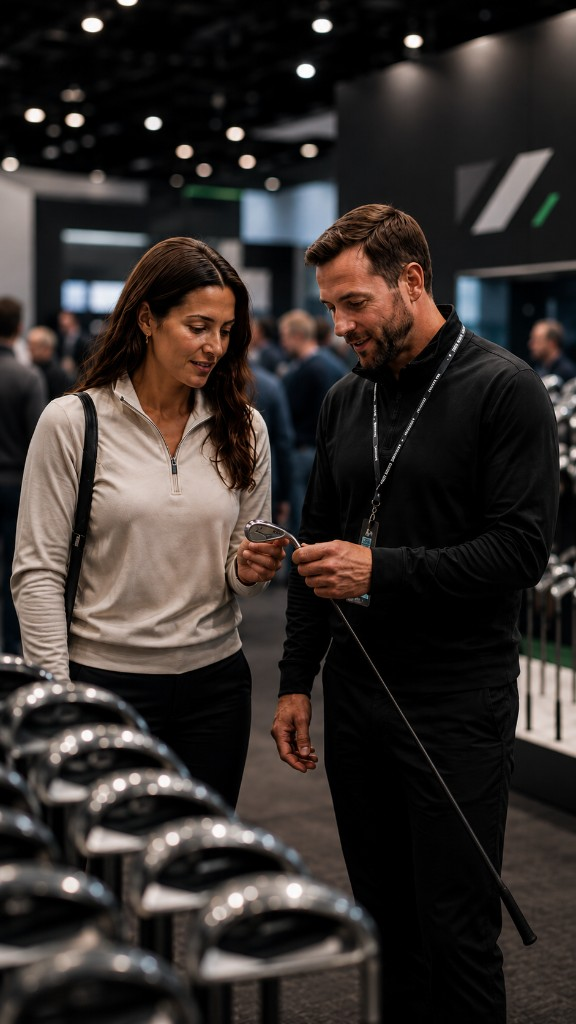
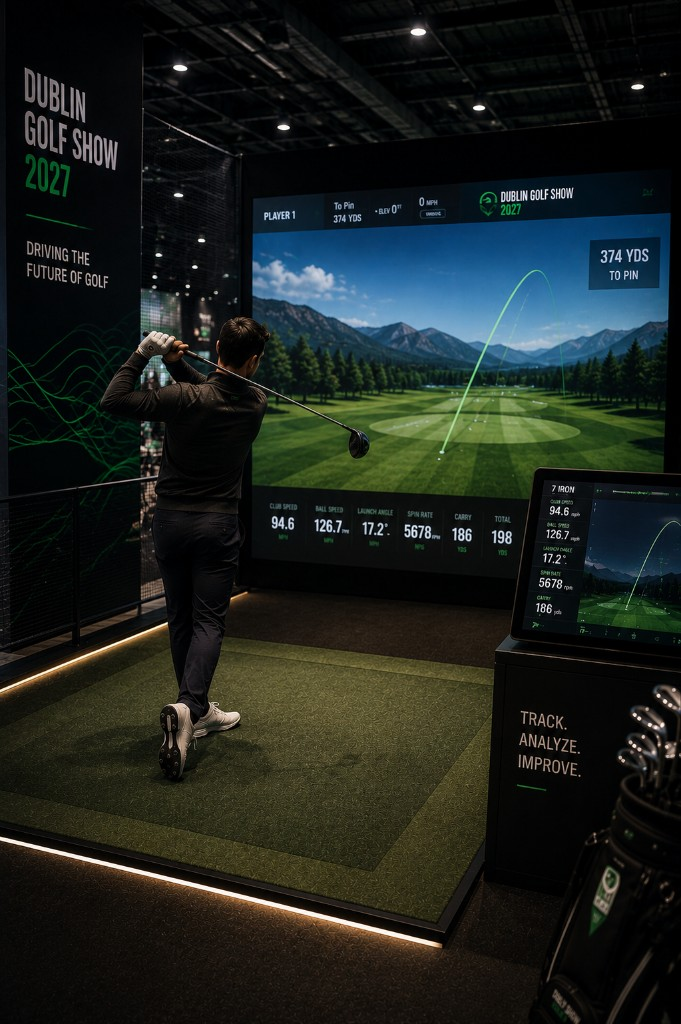
Unify consumer and exhibitor CTAs, align the footer lead capture, and refresh the simulator story slide.

diff --git a/components/layout/Footer.tsx b/components/layout/Footer.tsx
@@ -1,14 +1,15 @@
 "use client";
 
-import { useState, type FormEvent, type ReactNode } from "react";
-import { Button } from "@/components/ui/Button";
+import type { ReactNode } from "react";
 import { Contour } from "@/components/ui/Contour";
 import { Container } from "@/components/ui/Container";
+import { RegisterInterestButton } from "@/components/interest/RegisterInterestButton";
+import { siteConfig } from "@/lib/site";
 
 const socials: Array<{ label: string; href: string; icon: ReactNode }> = [
   {
     label: "Instagram",
-    href: "https://www.instagram.com/",
+    href: siteConfig.social.instagram,
     icon: (
       <svg viewBox="0 0 24 24" fill="none" aria-hidden className="h-5 w-5">
         <rect
@@ -26,8 +27,17 @@ const socials: Array<{ label: string; href: string; icon: ReactNode }> = [
     ),
   },
   {
+    label: "Facebook",
+    href: siteConfig.social.facebook,
+    icon: (
+      <svg viewBox="0 0 24 24" fill="currentColor" aria-hidden className="h-5 w-5">
+        <path d="M14.5 8.5V6.75c0-.69.1-1.08 1.12-1.08H17V3h-2.34C11.9 3 11 4.55 11 6.58V8.5H9v2.75h2V21h3.5v-9.75h2.34l.36-2.75H14.5Z" />
+      </svg>
+    ),
+  },
+  {
     label: "X",
-    href: "https://x.com/",
+    href: siteConfig.social.x,
     icon: (
       <svg viewBox="0 0 24 24" fill="currentColor" aria-hidden className="h-5 w-5">
         <path d="M13.682 10.622 20.24 3h-1.554l-5.693 6.618L8.45 3H3.25l6.876 10.007L3.25 21h1.554l6.012-6.989L15.8 21h5.2l-7.318-10.378Zm-2.126 2.471-.697-.997L4.864 4.17h2.387l4.473 6.4.697.997 5.901 8.44h-2.387l-4.379-6.914Z" />
@@ -36,7 +46,7 @@ const socials: Array<{ label: string; href: string; icon: ReactNode }> = [
   },
   {
     label: "LinkedIn",
-    href: "https://www.linkedin.com/",
+    href: siteConfig.social.linkedin,
     icon: (
       <svg viewBox="0 0 24 24" fill="currentColor" aria-hidden className="h-5 w-5">
         <path d="M6.94 8.5H4.05V20h2.89V8.5ZM5.5 7.17a1.68 1.68 0 1 0 0-3.36 1.68 1.68 0 0 0 0 3.36ZM20 20h-2.88v-5.6c0-1.33-.02-3.05-1.86-3.05-1.86 0-2.15 1.45-2.15 2.95V20H10.2V8.5h2.77v1.57h.04c.39-.73 1.33-1.5 2.74-1.5 2.93 0 3.47 1.93 3.47 4.44V20Z" />
@@ -46,16 +56,6 @@ const socials: Array<{ label: string; href: string; icon: ReactNode }> = [
 ];
 
 export function Footer() {
-  const [email, setEmail] = useState("");
-  const [done, setDone] = useState(false);
-
-  function onSubmit(event: FormEvent<HTMLFormElement>) {
-    event.preventDefault();
-    if (!email.trim()) return;
-    setDone(true);
-    setEmail("");
-  }
-
   return (
     <footer id="contact" className="section-y relative overflow-hidden border-t border-line bg-[#070d16]">
       <div className="pointer-events-none absolute inset-0" aria-hidden>
@@ -63,37 +63,18 @@ export function Footer() {
       </div>
 
       <Container className="relative">
-        <div className="grid gap-14 lg:grid-cols-12 lg:items-start lg:gap-16">
+        <div className="grid gap-14 lg:grid-cols-12 lg:items-end lg:gap-16">
           <div className="lg:col-span-7">
-            <p className="eyebrow">Stay Close</p>
-            <h2 className="mt-4 max-w-md font-display text-3xl font-bold uppercase leading-none tracking-tight text-white md:text-4xl">
-              Be first to hear
+            <h2 className="max-w-md font-display text-3xl font-bold uppercase leading-none tracking-tight text-white md:text-4xl">
+              Get Ticket Updates
             </h2>
-
-            <form
-              onSubmit={onSubmit}
-              className="mt-8 flex max-w-lg flex-col gap-3 sm:flex-row sm:items-center sm:gap-4"
-            >
-              <label htmlFor="footer-email" className="sr-only">
-                Email address
-              </label>
-              <input
-                id="footer-email"
-                type="email"
-                required
-                autoComplete="email"
-                value={email}
-                onChange={(e) => setEmail(e.target.value)}
-                placeholder="Email address"
-                className="h-12 w-full flex-1 rounded-full border border-white/15 bg-white/[0.03] px-5 text-base text-white outline-none transition-colors placeholder:text-white/35 focus:border-accent focus-visible:outline focus-visible:outline-2 focus-visible:outline-offset-2 focus-visible:outline-accent"
-              />
-              <Button type="submit" className="h-12 w-full shrink-0 sm:w-auto">
-                Subscribe
-              </Button>
-            </form>
-            {done ? (
-              <p className="mt-4 text-base text-accent">You&apos;re on the list.</p>
-            ) : null}
+            <p className="body-copy prose-width mt-5 md:mt-6">
+              Be the first to hear when tickets go on sale, speakers are announced and new
+              experiences are revealed.
+            </p>
+            <div className="mt-8 md:mt-10">
+              <RegisterInterestButton>Get Ticket Updates</RegisterInterestButton>
+            </div>
           </div>
 
           <div className="grid gap-10 sm:grid-cols-2 lg:col-span-5 lg:justify-items-end lg:text-right">
@@ -102,10 +83,10 @@ export function Footer() {
                 Contact
               </p>
               <a
-                href="mailto:hello@dublingolfshow.ie"
+                href={`mailto:${siteConfig.email}`}
                 className="mt-4 block text-lg font-light text-white transition-colors hover:text-accent"
               >
-                hello@dublingolfshow.ie
+                {siteConfig.email}
               </a>
             </div>
 

diff --git a/app/api/register-interest/route.ts b/app/api/register-interest/route.ts
@@ -200,9 +200,9 @@ export async function POST(request: Request) {
       from,
       to: [NOTIFY_EMAIL],
       replyTo: email,
-      subject: `Register Interest — ${fullName}`,
+      subject: `Get Ticket Updates — ${fullName}`,
       text: [
-        "New Register Interest submission",
+        "New Get Ticket Updates submission",
         "",
         `First name: ${firstName}`,
         `Last name: ${lastName}`,
@@ -213,7 +213,7 @@ export async function POST(request: Request) {
       ].join("\n"),
       html: `
         <div style="font-family:Arial,sans-serif;line-height:1.6;color:#0A111C">
-          <h2 style="margin:0 0 12px">New Register Interest submission</h2>
+          <h2 style="margin:0 0 12px">New Get Ticket Updates submission</h2>
           <p style="margin:0 0 8px"><strong>First name:</strong> ${escapeHtml(firstName)}</p>
           <p style="margin:0 0 8px"><strong>Last name:</strong> ${escapeHtml(lastName)}</p>
           <p style="margin:0 0 8px"><strong>Email:</strong> ${escapeHtml(email)}</p>

diff --git a/components/layout/Navbar.tsx b/components/layout/Navbar.tsx
@@ -8,7 +8,7 @@ import { useInterestModal } from "@/components/interest/InterestModalProvider";
 const links = [
   { href: "#about", label: "About" },
   { href: "#experience", label: "Experience" },
-  { href: "#partner", label: "Partner With Us" },
+  { href: "#partner", label: "Exhibit at Dublin Golf Show" },
   { href: "#contact", label: "Contact" },
 ];
 
@@ -74,7 +74,7 @@ export function Navbar() {
               <span className="absolute -bottom-1 left-0 h-px w-0 bg-accent transition-all duration-300 group-hover:w-full" />
             </a>
           ))}
-          <RegisterInterestButton size="sm">Register Interest</RegisterInterestButton>
+          <RegisterInterestButton size="sm">Get Ticket Updates</RegisterInterestButton>
         </div>
 
         <button
@@ -124,7 +124,7 @@ export function Navbar() {
               openInterestModal();
             }}
           >
-            Register Interest
+            Get Ticket Updates
           </Button>
         </div>
       </div>

diff --git a/app/api/partner-enquiry/route.ts b/app/api/partner-enquiry/route.ts
@@ -204,7 +204,7 @@ export async function POST(request: Request) {
       replyTo: email,
       subject: `Partner Enquiry — ${companyName}`,
       text: [
-        "New Partner With Us enquiry",
+        "New Exhibit at Dublin Golf Show enquiry",
         "",
         `First name: ${firstName}`,
         `Last name: ${lastName}`,
@@ -216,7 +216,7 @@ export async function POST(request: Request) {
       ].join("\n"),
       html: `
         <div style="font-family:Arial,sans-serif;line-height:1.6;color:#0A111C">
-          <h2 style="margin:0 0 12px">New Partner With Us enquiry</h2>
+          <h2 style="margin:0 0 12px">New Exhibit at Dublin Golf Show enquiry</h2>
           <p style="margin:0 0 8px"><strong>First name:</strong> ${escapeHtml(firstName)}</p>
           <p style="margin:0 0 8px"><strong>Last name:</strong> ${escapeHtml(lastName)}</p>
           <p style="margin:0 0 8px"><strong>Company:</strong> ${escapeHtml(companyName)}</p>

diff --git a/components/sections/ChooseExperience.tsx b/components/sections/ChooseExperience.tsx
@@ -54,7 +54,7 @@ export function ChooseExperience() {
                 in the atmosphere — this is your weekend on the fairway, under one roof.
               </p>
               <div className="mt-10 md:mt-12">
-                <RegisterInterestButton>Register Your Interest</RegisterInterestButton>
+                <RegisterInterestButton>Get Ticket Updates</RegisterInterestButton>
               </div>
             </Reveal>
           </div>
@@ -91,7 +91,7 @@ export function ChooseExperience() {
                 built to put your brand in front of players, buyers and decision-makers.
               </p>
               <div className="mt-10 md:mt-12">
-                <PartnerWithUsButton>Partner With Us</PartnerWithUsButton>
+                <PartnerWithUsButton>Exhibit at Dublin Golf Show</PartnerWithUsButton>
               </div>
             </Reveal>
 

diff --git a/components/sections/OverviewCarousel.tsx b/components/sections/OverviewCarousel.tsx
@@ -8,11 +8,13 @@ const SLIDE_MS = 4000;
 const slides = [
   {
     src: "/images/stories/try.jpg",
-    alt: "A visitor and expert inspecting a golf club together on the show floor",
-    eyebrow: "Try",
-    title: "Hands on with the latest kit",
-    caption: "RDS Simmonscourt, Dublin",
-    objectPosition: "50% 36%",
+    alt: "A golfer in follow-through on a premium indoor simulator with launch monitor data at Dublin Golf Show",
+    eyebrow: "19–20 June 2027",
+    title: "Play the latest simulators",
+    caption:
+      "Compare the newest launch monitors, simulators and game-improvement technology.",
+    // Keep golfer, simulator screen, ball flight and Track/Analyze kiosk in frame
+    objectPosition: "50% 48%",
     quality: 95,
     priority: true,
   },

diff --git a/components/interest/InterestModalProvider.tsx b/components/interest/InterestModalProvider.tsx
@@ -157,7 +157,7 @@ function InterestModal({
       <button
         type="button"
         className="absolute inset-0 bg-[rgba(7,13,22,0.78)] backdrop-blur-md"
-        aria-label="Close register interest dialog"
+        aria-label="Close ticket updates dialog"
         onClick={onClose}
       />
 
@@ -204,7 +204,7 @@ function InterestModal({
         ) : (
           <div className="pr-4">
             <p className="font-display text-[14px] font-semibold uppercase tracking-[0.12em] text-accent">
-              Register Interest
+              Get Ticket Updates
             </p>
             <h2
               id={titleId}

diff --git a/components/sections/FinalStatement.tsx b/components/sections/FinalStatement.tsx
@@ -46,8 +46,8 @@ export function FinalStatement() {
           </Reveal>
 
           <Reveal delay={2} className="cta-row mt-10 justify-center md:mt-12">
-            <RegisterInterestButton>Register Interest</RegisterInterestButton>
-            <PartnerWithUsButton>Partner With Us</PartnerWithUsButton>
+            <RegisterInterestButton>Get Ticket Updates</RegisterInterestButton>
+            <PartnerWithUsButton>Exhibit at Dublin Golf Show</PartnerWithUsButton>
           </Reveal>
         </div>
       </Container>

diff --git a/components/sections/Hero.tsx b/components/sections/Hero.tsx
@@ -70,8 +70,8 @@ export function Hero() {
           </p>
 
           <div className="cta-row mt-7 md:mt-8">
-            <RegisterInterestButton>Register Interest</RegisterInterestButton>
-            <PartnerWithUsButton>Partner With Us</PartnerWithUsButton>
+            <RegisterInterestButton>Get Ticket Updates</RegisterInterestButton>
+            <PartnerWithUsButton>Exhibit at Dublin Golf Show</PartnerWithUsButton>
           </div>
         </div>
       </Container>

diff --git a/components/partner/PartnerModalProvider.tsx b/components/partner/PartnerModalProvider.tsx
@@ -200,7 +200,7 @@ function PartnerModal({
         ) : (
           <div className="pr-4">
             <p className="font-display text-[14px] font-semibold uppercase tracking-[0.12em] text-accent">
-              Partner With Us
+              Exhibit at Dublin Golf Show
             </p>
             <h2
               id={titleId}

diff --git a/components/interest/RegisterInterestButton.tsx b/components/interest/RegisterInterestButton.tsx
@@ -12,7 +12,7 @@ type RegisterInterestButtonProps = {
 } & Omit<ButtonHTMLAttributes<HTMLButtonElement>, "children" | "onClick" | "type">;
 
 export function RegisterInterestButton({
-  children = "Register Interest",
+  children = "Get Ticket Updates",
   variant = "primary",
   size = "default",
   className = "",

diff --git a/components/partner/PartnerWithUsButton.tsx b/components/partner/PartnerWithUsButton.tsx
@@ -12,7 +12,7 @@ type PartnerWithUsButtonProps = {
 } & Omit<ButtonHTMLAttributes<HTMLButtonElement>, "children" | "onClick" | "type">;
 
 export function PartnerWithUsButton({
-  children = "Partner With Us",
+  children = "Exhibit at Dublin Golf Show",
   variant = "ghost",
   size = "default",
   className = "",
